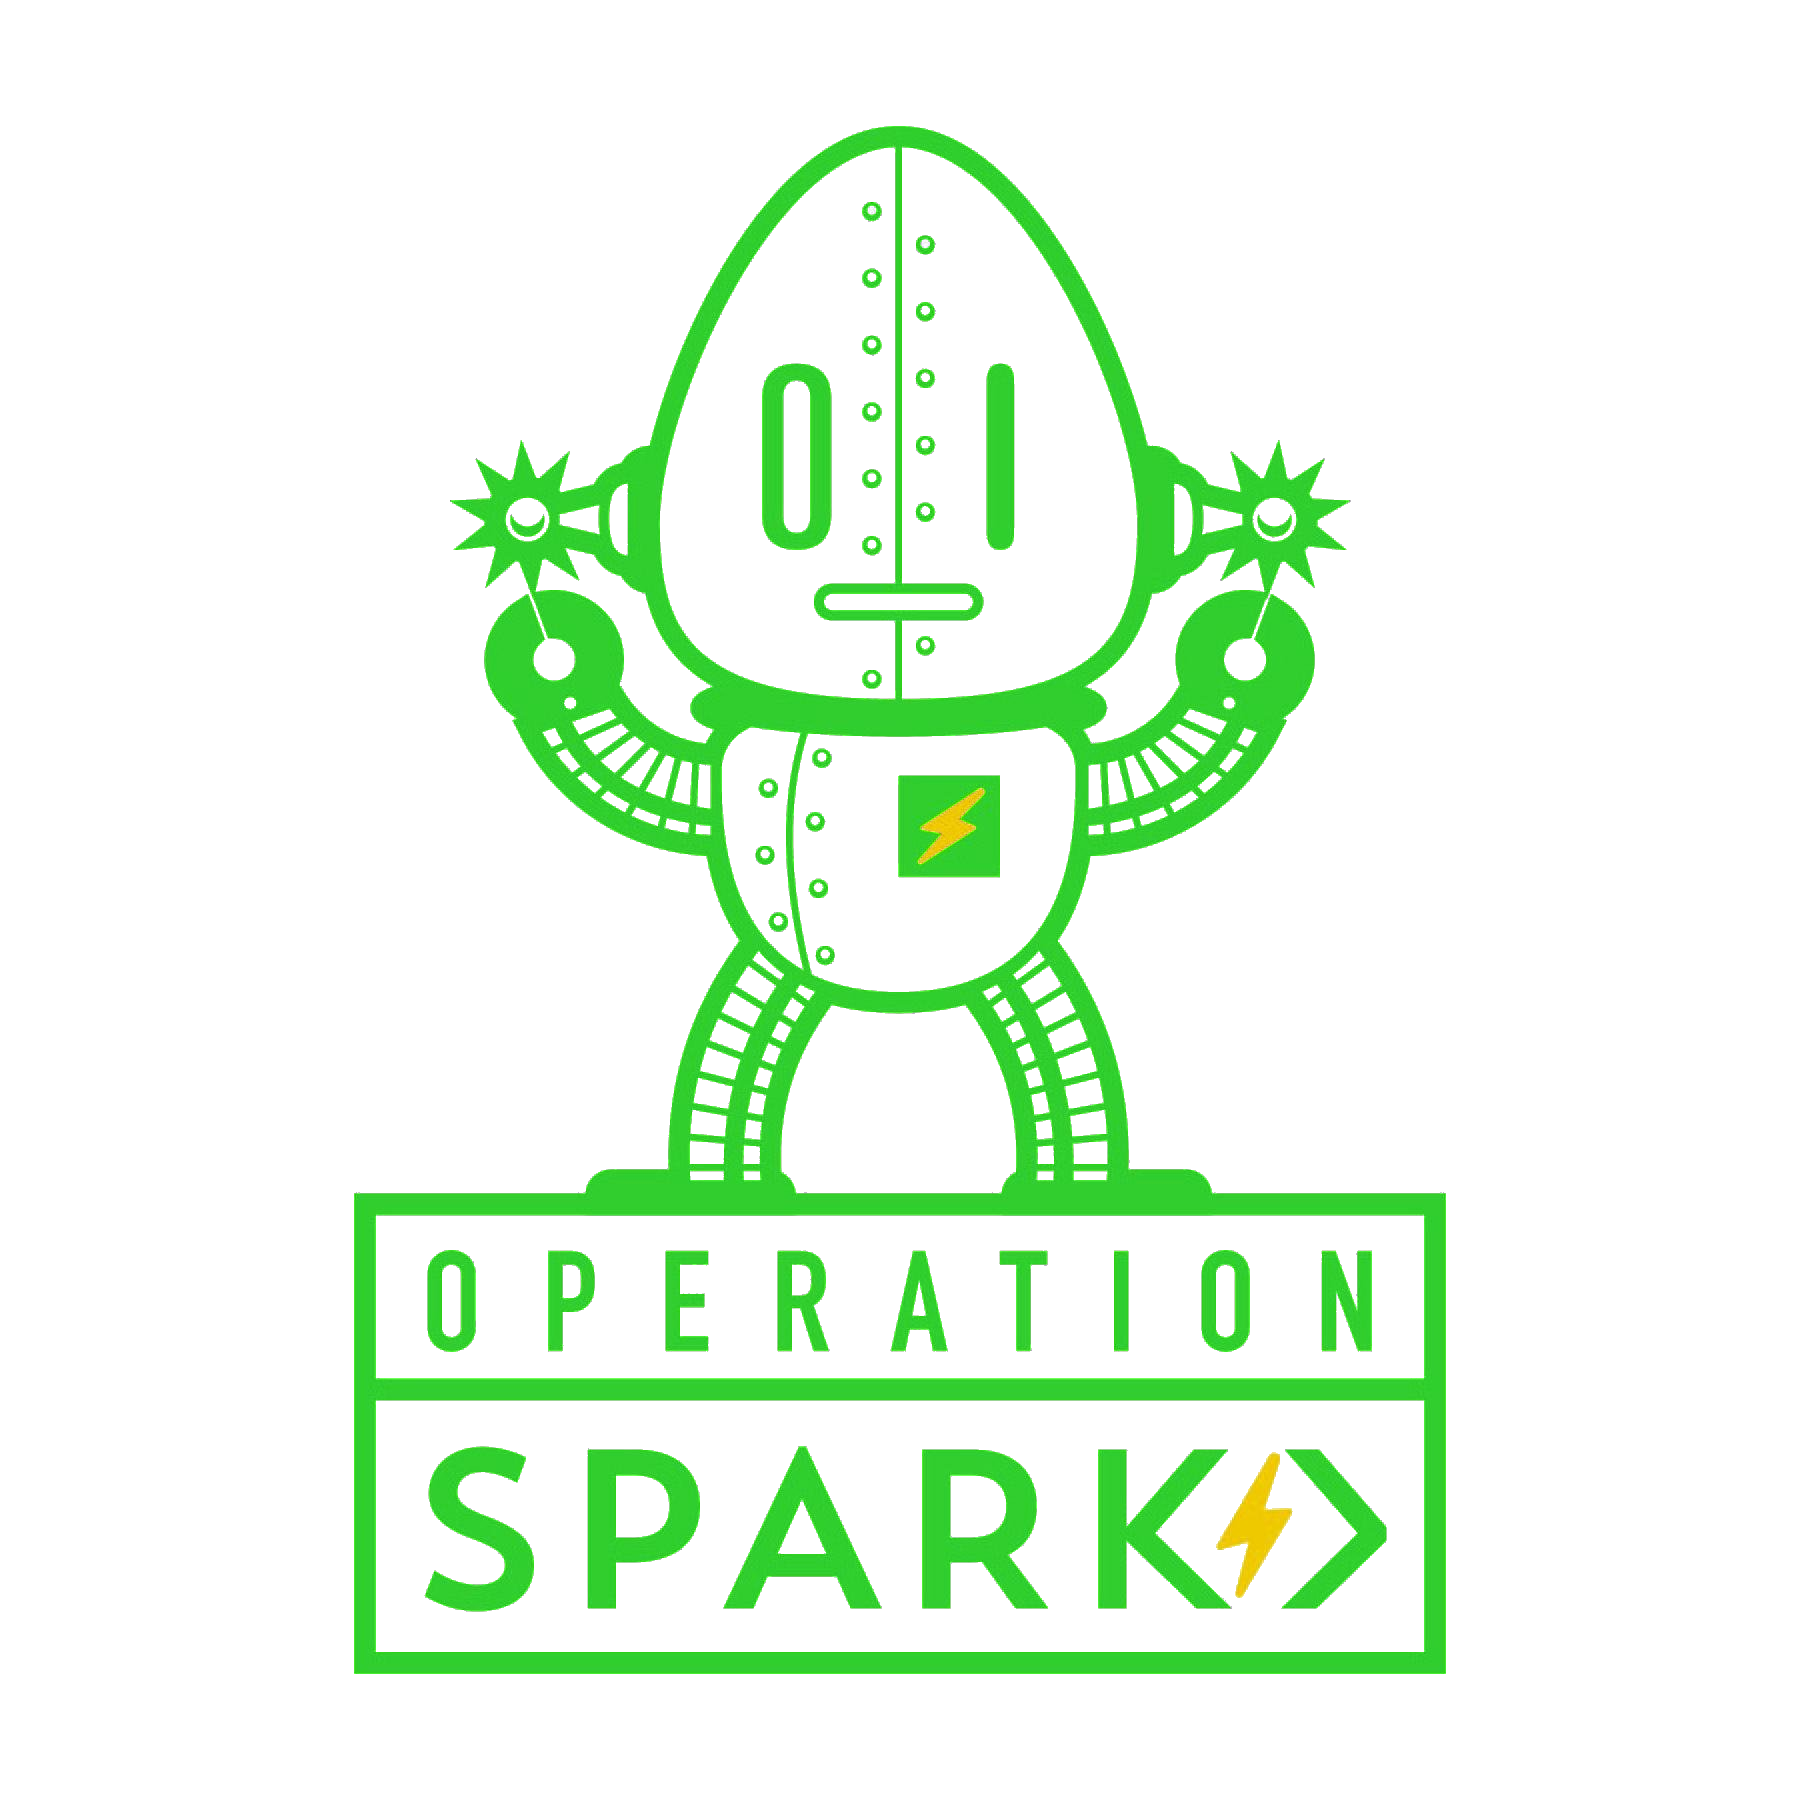
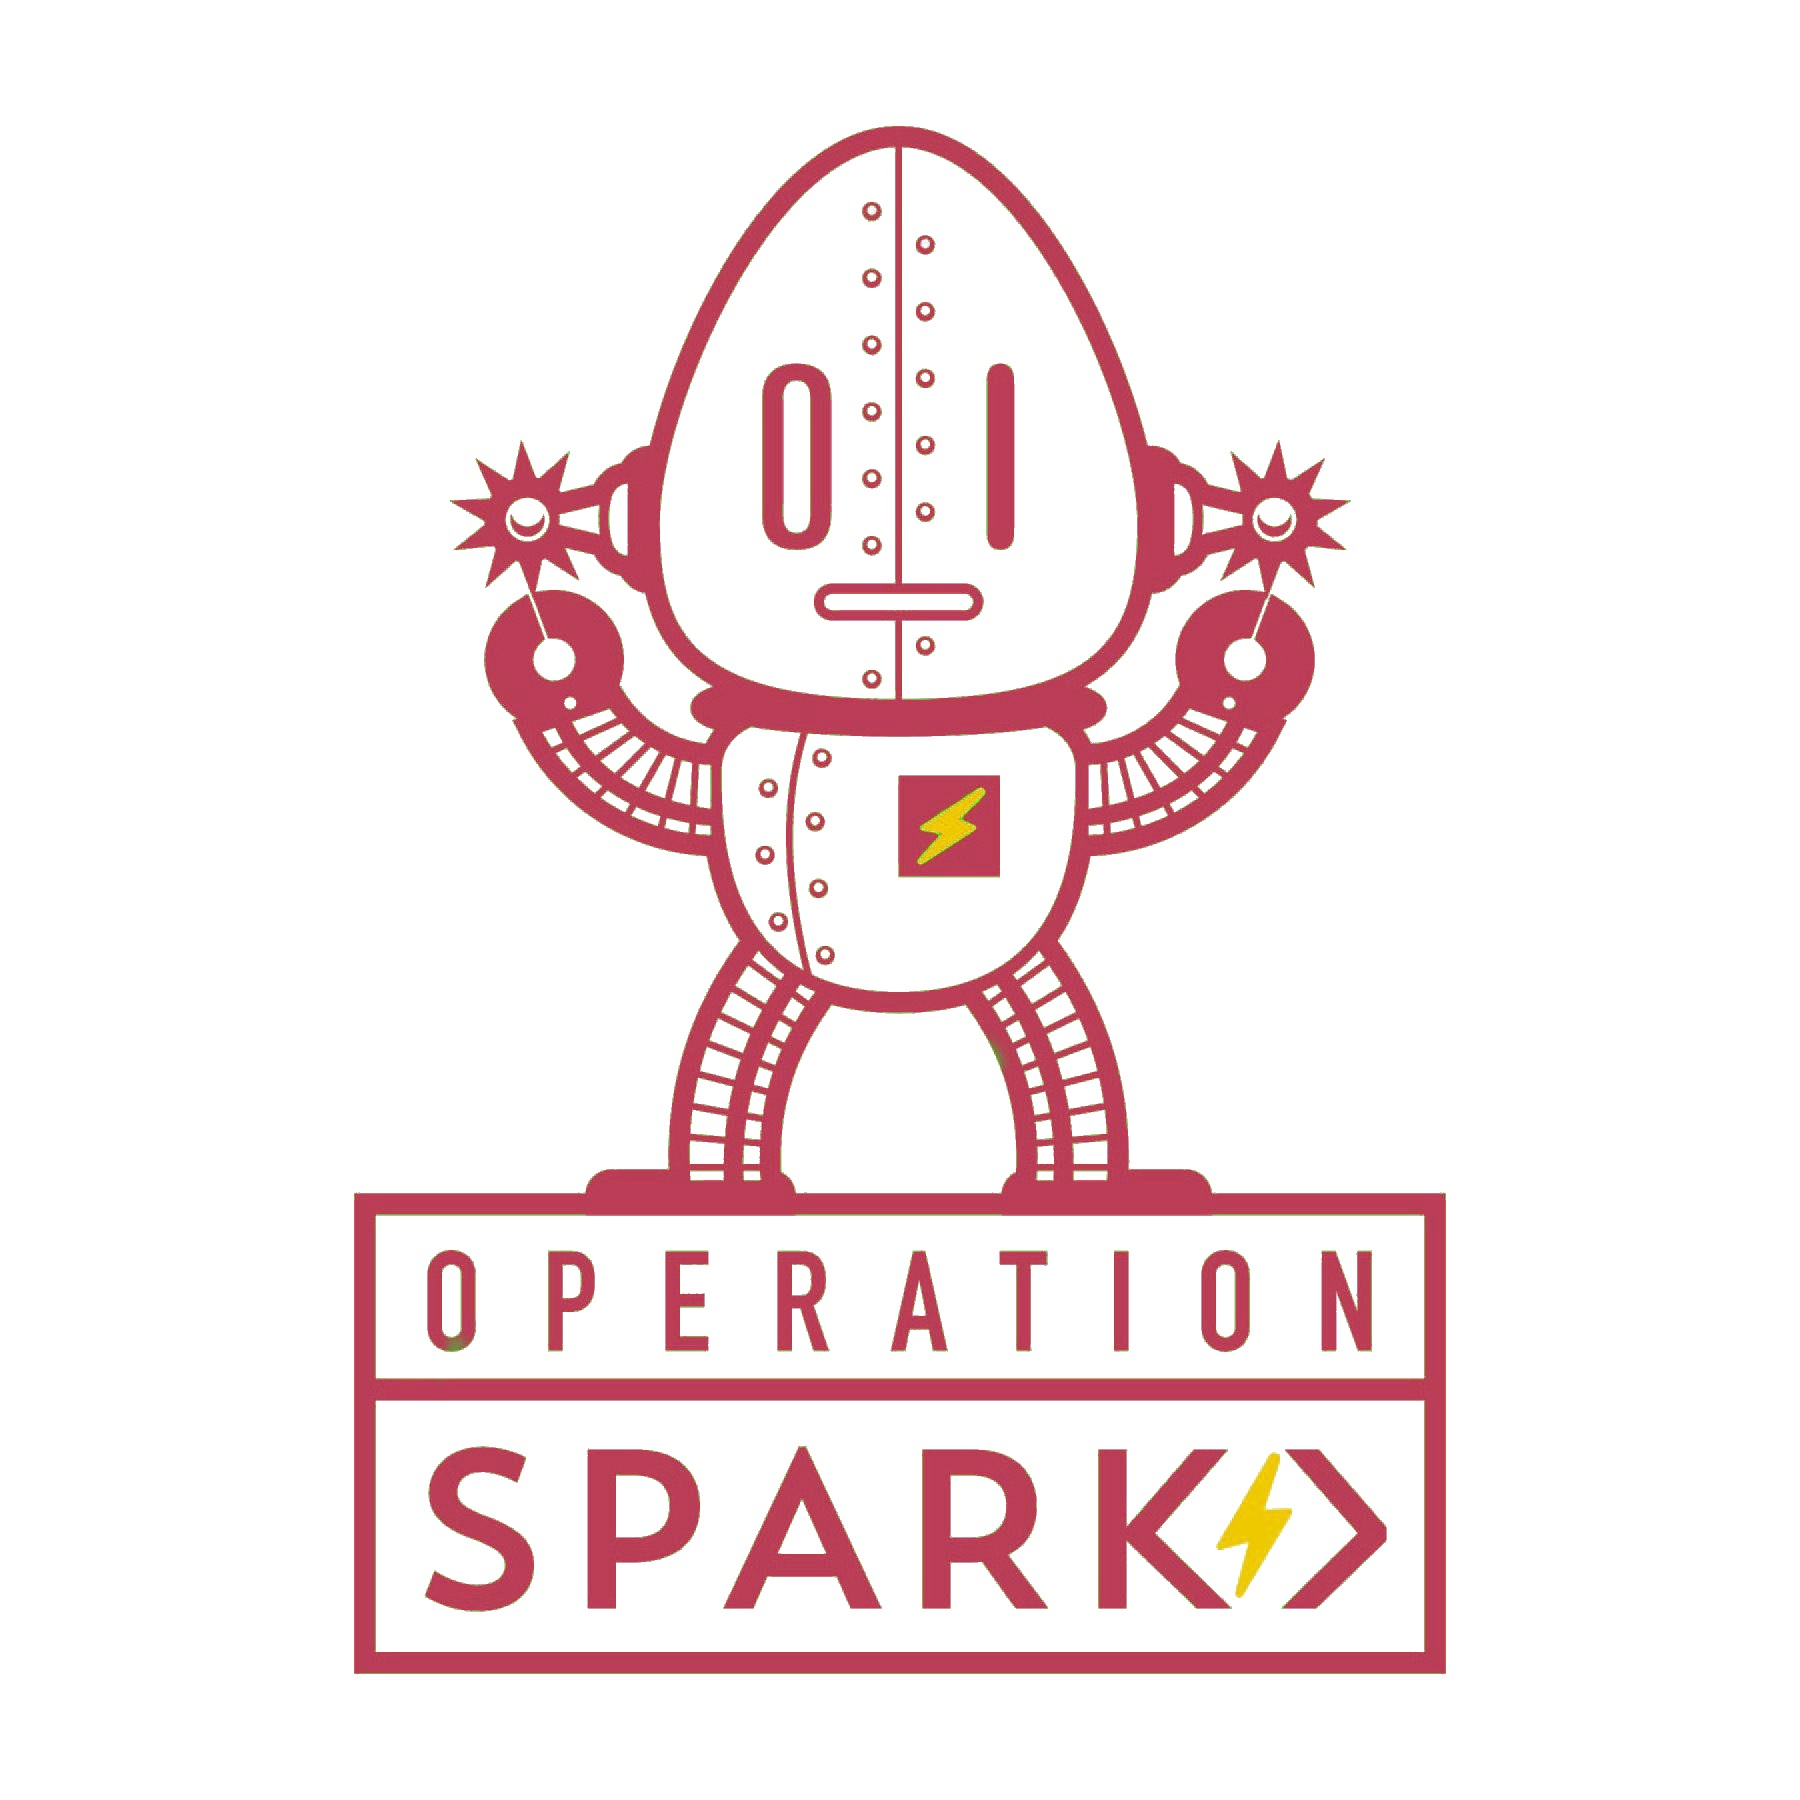
new images

Changed region(s): [[0.1867, 0.0622, 0.8089, 0.9333], [0.5911, 0.1556, 0.6222, 0.2178]]

diff --git a/src/app/sign-up/signUp.component.html b/src/app/sign-up/signUp.component.html
@@ -17,7 +17,7 @@
     <div class="col-md-4">
     </div>
     <div class="col-md-4 text-center">
-      <img class="HomeFit_logo" alt="HomeFit logo" src="../../assets/img/HomeFit.jpg" />
+      <img class="HomeFit_logo" alt="HomeFit logo" src="../../assets/img/HomeFit-transparent.jpg" />
     </div>
   </div>
   <div class="col-md-4">
@@ -38,7 +38,7 @@
   <div class="row"> 
     <div class="col-xs-12 col-md-12">
       <img class="google_logo" alt="Google logo" src="../../assets/img/googleHome.jpg" />
-      <img class="op_spark_logo" alt="Operation Spark Logo" src="../../assets/img/Op-Spark.jpg" />
+      <img class="op_spark_logo" alt="Operation Spark Logo" src="../../assets/img/Sparky-red.jpg" />
     </div>
   </div>
   <br>

diff --git a/src/app/sign-up/signin.component.css b/src/app/sign-up/signin.component.css
@@ -11,12 +11,13 @@
 }
 
 .homeDemo {
-  color: white;
+  color: #27213B;
 }
 
 .HomeFit_logo {
   max-width: 100%;
   max-height: 100%;
+  background-color: #27213B;
 }
 
 .sign-in_button {
